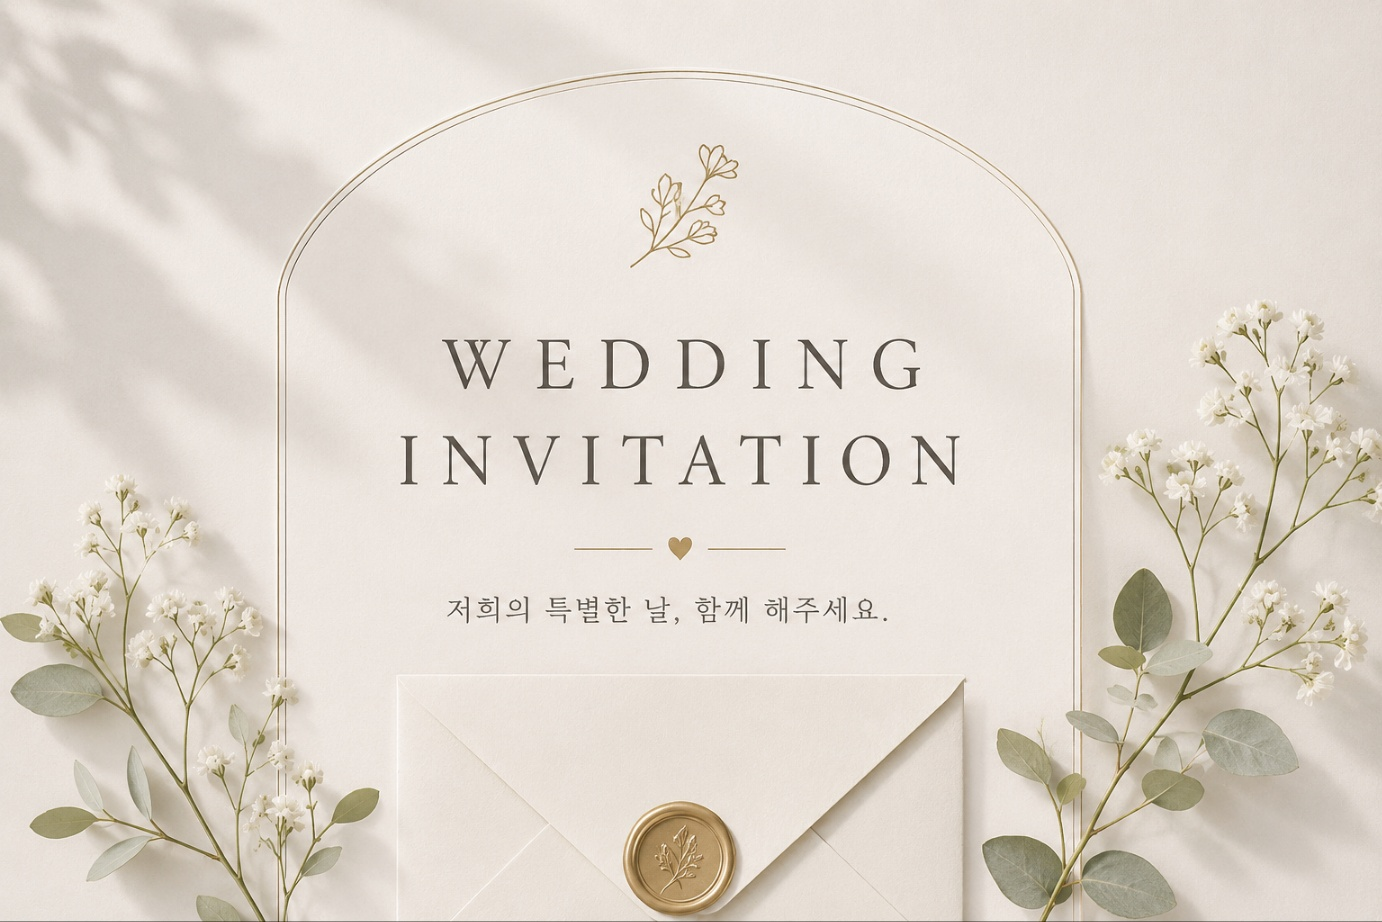
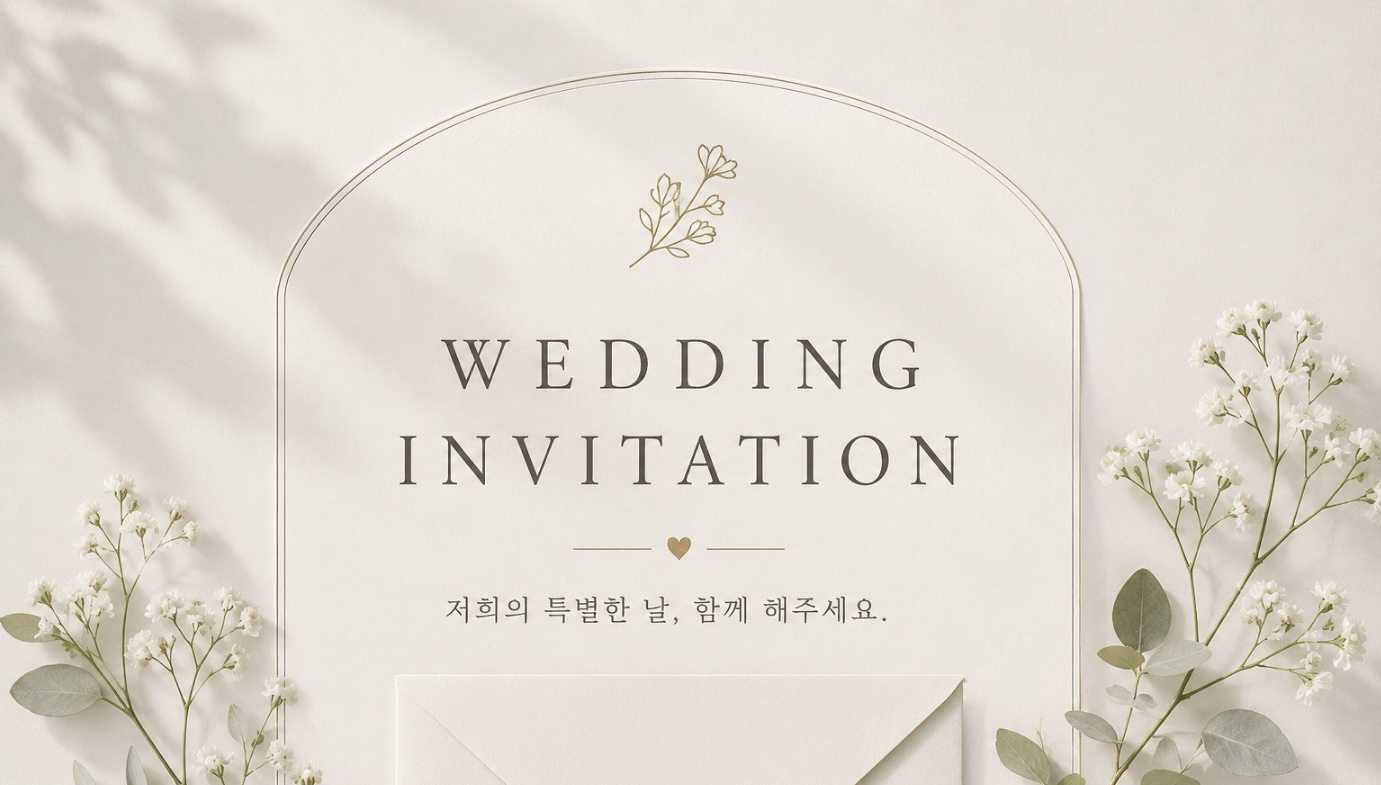
style: switch gallery to 4 columns per row and optimize fullscreen modal with scroll lock

diff --git a/src/App.tsx b/src/App.tsx
@@ -22,8 +22,42 @@ export default function App() {
   const [isLinkCopied, setIsLinkCopied] = useState(false);
   const [selectedPhoto, setSelectedPhoto] = useState<number | null>(null);
   const mapContainerRef = useRef<HTMLDivElement | null>(null);
+  const touchStartXRef = useRef<number | null>(null);
+  const touchEndXRef = useRef<number | null>(null);
 
   const galleryPhotos = Array.from({ length: 8 }, (_, i) => `${import.meta.env.BASE_URL}pic/${i + 1}.jpg`);
+
+  const handleSwipeEnd = () => {
+    if (touchStartXRef.current !== null && touchEndXRef.current !== null) {
+      const distance = touchStartXRef.current - touchEndXRef.current;
+      const minSwipeDistance = 35; // 35px 이상 손가락이나 마우스로 슬라이드 시 다음/이전 전환
+      if (Math.abs(distance) > minSwipeDistance) {
+        if (distance > 0) {
+          setSelectedPhoto((prev) => (prev !== null ? (prev + 1) % galleryPhotos.length : null));
+        } else {
+          setSelectedPhoto((prev) => (prev !== null ? (prev - 1 + galleryPhotos.length) % galleryPhotos.length : null));
+        }
+      }
+    }
+    touchStartXRef.current = null;
+    touchEndXRef.current = null;
+  };
+
+  // 모달 열림 시 배경 웹페이지 스크롤 원천 차단 (iOS Safari 및 일반 브라우저 완벽 대응)
+  useEffect(() => {
+    if (selectedPhoto !== null) {
+      const originalOverflow = document.body.style.overflow;
+      const originalTouchAction = document.body.style.touchAction;
+      document.body.style.overflow = 'hidden';
+      document.body.style.touchAction = 'none';
+      document.documentElement.style.overflow = 'hidden';
+      return () => {
+        document.body.style.overflow = originalOverflow;
+        document.body.style.touchAction = originalTouchAction;
+        document.documentElement.style.overflow = '';
+      };
+    }
+  }, [selectedPhoto]);
 
   useEffect(() => {
     const initMap = () => {
@@ -156,8 +190,9 @@ export default function App() {
 
 
   return (
-    <div className="display-container" onContextMenu={(e) => e.preventDefault()}>
-      {/* 1. 인포테인먼트 상단 상태바 */}
+    <>
+      <div className="display-container" onContextMenu={(e) => e.preventDefault()}>
+        {/* 1. 인포테인먼트 상단 상태바 */}
       <header className="status-bar">
         <div className="status-left">
           <span className="speed-num">{distance}</span>
@@ -586,54 +621,77 @@ export default function App() {
             </button>
           </div>
         </section>
+      </main>
+      </div>
 
-        {/* 사진 크게 보기 모달 (라이트박스 뷰어) */}
-        {selectedPhoto !== null && (
+      {/* 사진 크게 보기 모달 (라이트박스 뷰어 - iOS Safari 완벽 대응 및 최상위 DOM 분리) */}
+      {selectedPhoto !== null && (
+        <div 
+          className="lightbox-overlay" 
+          onClick={() => setSelectedPhoto(null)}
+        >
           <div 
-            className="lightbox-overlay" 
-            onClick={() => setSelectedPhoto(null)}
+            className="lightbox-content" 
+            onClick={(e) => e.stopPropagation()}
+            onTouchStart={(e) => {
+              touchStartXRef.current = e.targetTouches[0].clientX;
+              touchEndXRef.current = null;
+            }}
+            onTouchMove={(e) => {
+              touchEndXRef.current = e.targetTouches[0].clientX;
+            }}
+            onTouchEnd={handleSwipeEnd}
+            onMouseDown={(e) => {
+              touchStartXRef.current = e.clientX;
+              touchEndXRef.current = null;
+            }}
+            onMouseMove={(e) => {
+              if (touchStartXRef.current !== null) {
+                touchEndXRef.current = e.clientX;
+              }
+            }}
+            onMouseUp={handleSwipeEnd}
+            onMouseLeave={() => {
+              touchStartXRef.current = null;
+              touchEndXRef.current = null;
+            }}
           >
-            <div 
-              className="lightbox-content" 
-              onClick={(e) => e.stopPropagation()}
+            <button 
+              className="lightbox-close-btn"
+              onClick={() => setSelectedPhoto(null)}
+              aria-label="닫기"
             >
-              <button 
-                className="lightbox-close-btn"
-                onClick={() => setSelectedPhoto(null)}
-                aria-label="닫기"
-              >
-                <i className="fa-solid fa-xmark"></i>
-              </button>
-              
-              <img 
-                src={galleryPhotos[selectedPhoto]} 
-                alt={`웨딩 사진 ${selectedPhoto + 1}`} 
-                className="lightbox-img"
-              />
+              <i className="fa-solid fa-xmark"></i>
+            </button>
+            
+            <img 
+              src={galleryPhotos[selectedPhoto]} 
+              alt={`웨딩 사진 ${selectedPhoto + 1}`} 
+              className="lightbox-img"
+            />
 
-              <div className="lightbox-nav-bar">
-                <button 
-                  className="lightbox-nav-btn"
-                  onClick={() => setSelectedPhoto((selectedPhoto - 1 + galleryPhotos.length) % galleryPhotos.length)}
-                  aria-label="이전 사진"
-                >
-                  <i className="fa-solid fa-chevron-left"></i>
-                </button>
-                <span className="lightbox-counter">
-                  {selectedPhoto + 1} / {galleryPhotos.length}
-                </span>
-                <button 
-                  className="lightbox-nav-btn"
-                  onClick={() => setSelectedPhoto((selectedPhoto + 1) % galleryPhotos.length)}
-                  aria-label="다음 사진"
-                >
-                  <i className="fa-solid fa-chevron-right"></i>
-                </button>
-              </div>
+            <div className="lightbox-nav-bar">
+              <button 
+                className="lightbox-nav-btn"
+                onClick={() => setSelectedPhoto((selectedPhoto - 1 + galleryPhotos.length) % galleryPhotos.length)}
+                aria-label="이전 사진"
+              >
+                <i className="fa-solid fa-chevron-left"></i>
+              </button>
+              <span className="lightbox-counter">
+                {selectedPhoto + 1} / {galleryPhotos.length}
+              </span>
+              <button 
+                className="lightbox-nav-btn"
+                onClick={() => setSelectedPhoto((selectedPhoto + 1) % galleryPhotos.length)}
+                aria-label="다음 사진"
+              >
+                <i className="fa-solid fa-chevron-right"></i>
+              </button>
             </div>
           </div>
-        )}
-      </main>
-    </div>
+        </div>
+      )}
+    </>
   );
 }

diff --git a/src/index.css b/src/index.css
@@ -211,54 +211,57 @@ body {
   display: block;
 }
 
-/* 갤러리 그리드 (4x2 총 8컷 모던 갤러리 레이아웃) */
+/* 갤러리 그리드 (한 열에 4개씩 4x2 총 8컷 모던 매거진 레이아웃) */
 .gallery-grid {
   display: grid;
-  grid-template-columns: repeat(2, 1fr);
-  gap: 14px;
+  grid-template-columns: repeat(4, 1fr);
+  gap: 8px;
   width: 100%;
 }
 .photo-item {
   position: relative;
-  border-radius: 16px;
+  border-radius: 10px;
   overflow: hidden;
   aspect-ratio: 4 / 5;
   background-color: #EAE6DF;
-  box-shadow: 0 6px 16px rgba(0, 0, 0, 0.05);
+  box-shadow: 0 3px 10px rgba(0, 0, 0, 0.06);
   cursor: pointer;
   transition: transform 0.25s ease, box-shadow 0.25s ease;
 }
 .photo-item:active, .photo-item:hover {
-  transform: scale(0.97);
-  box-shadow: 0 3px 10px rgba(0, 0, 0, 0.09);
+  transform: scale(0.96);
+  box-shadow: 0 2px 5px rgba(0, 0, 0, 0.12);
 }
 .photo-img {
   width: 100%;
   height: 100%;
   object-fit: cover;
   display: block;
-  transition: transform 0.5s ease;
+  transition: transform 0.4s ease;
 }
 .photo-item:hover .photo-img {
-  transform: scale(1.05);
+  transform: scale(1.06);
 }
 
-/* 갤러리 라이트박스 모달 (사진 확대 및 좌우 슬라이드 뷰어) */
+/* 갤러리 라이트박스 모달 (iOS Safari 풀스크린 및 스크롤 원천 차단 대응) */
 .lightbox-overlay {
   position: fixed;
   top: 0;
   left: 0;
-  width: 100vw;
-  height: 100vh;
-  background-color: rgba(12, 12, 15, 0.92);
-  backdrop-filter: blur(8px);
-  -webkit-backdrop-filter: blur(8px);
-  z-index: 10000;
+  right: 0;
+  bottom: 0;
+  width: 100%;
+  height: 100%;
+  min-height: 100vh;
+  min-height: -webkit-fill-available;
+  background-color: #0a0a0d;
+  z-index: 999999;
   display: flex;
   justify-content: center;
   align-items: center;
-  padding: 20px;
+  padding: 16px;
   animation: fadeIn 0.2s ease-out;
+  touch-action: none;
 }
 
 @keyframes fadeIn {
@@ -284,6 +287,11 @@ body {
   box-shadow: 0 20px 40px rgba(0, 0, 0, 0.5);
   user-select: none;
   -webkit-user-select: none;
+  touch-action: pan-y;
+  cursor: grab;
+}
+.lightbox-img:active {
+  cursor: grabbing;
 }
 
 .lightbox-close-btn {
